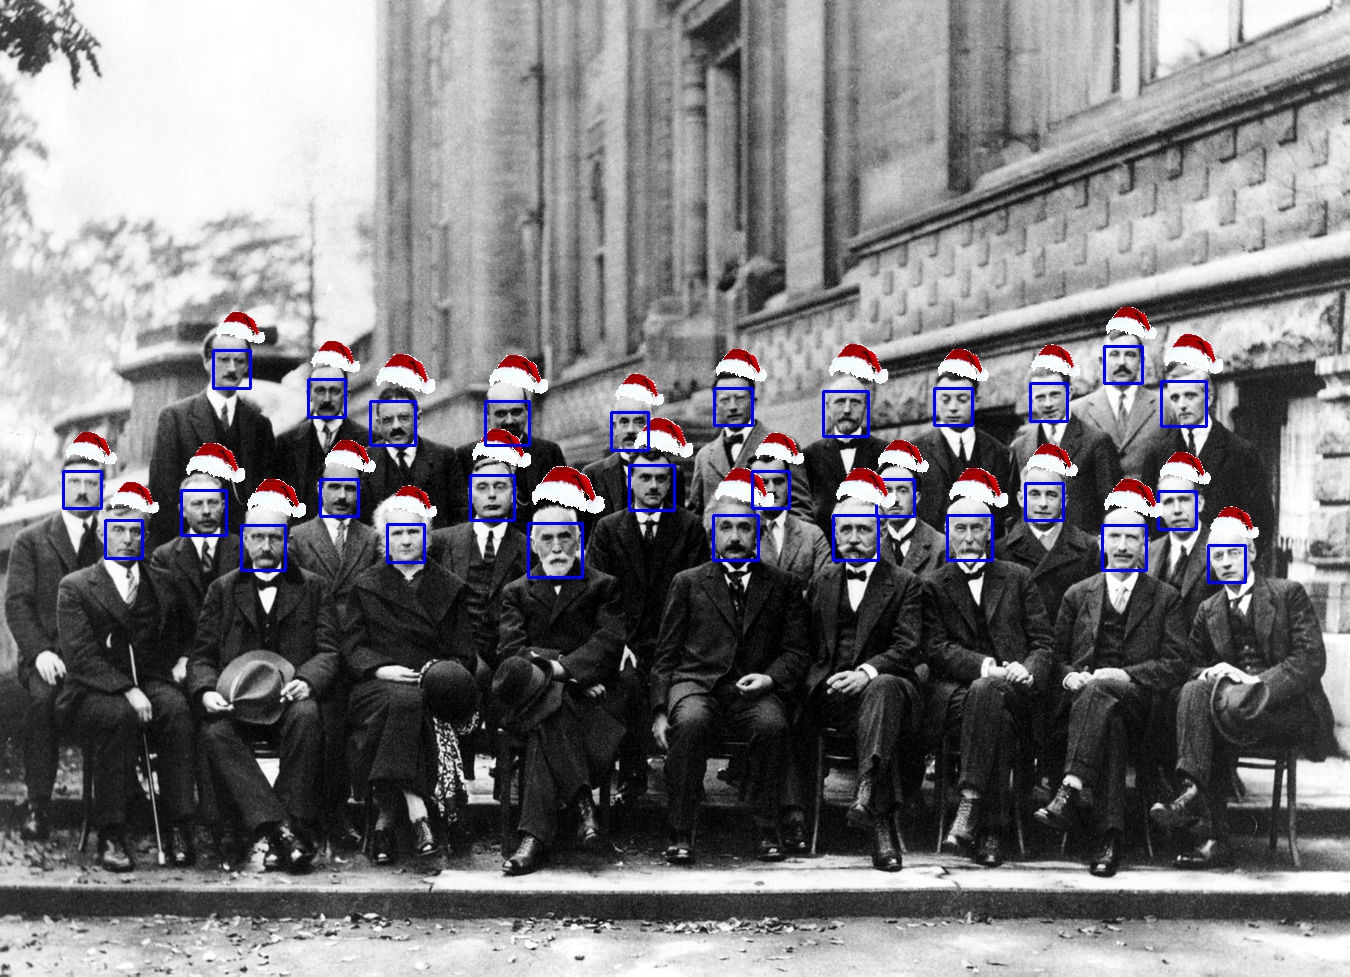
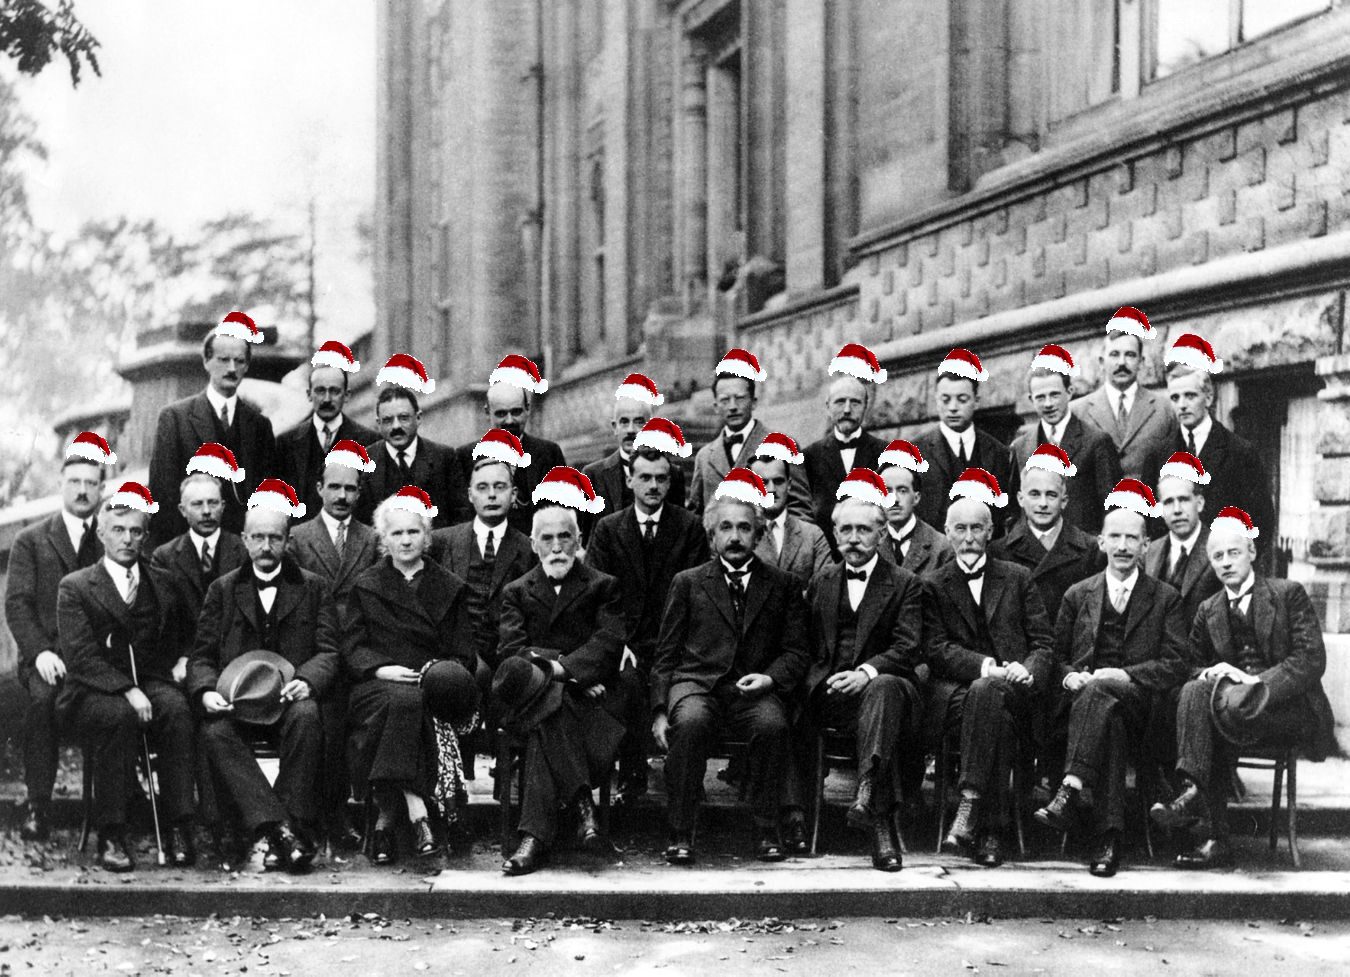
remove rect

diff --git a/source/add_hat.py b/source/add_hat.py
@@ -61,7 +61,7 @@ def add_hat(filepath='../images/Solvay.jpg',hatpath= '../images/hat.jpg',maskpat
     if len(rects)>0:
         for rect in rects:
             (x, y, w, h) = face_utils.rect_to_bb(rect)
-            cv2.rectangle(img,(x,y),(x+w,y+h),(255,0,0),2,8,0)
+            # cv2.rectangle(img,(x,y),(x+w,y+h),(255,0,0),2,8,0)
             shape = predictor(img,rect)
             img_hat = add_hat_helper(img,rect,shape,hat_mask,hat_img)
             cv2.imwrite('../chrismashat.jpg',img_hat)
